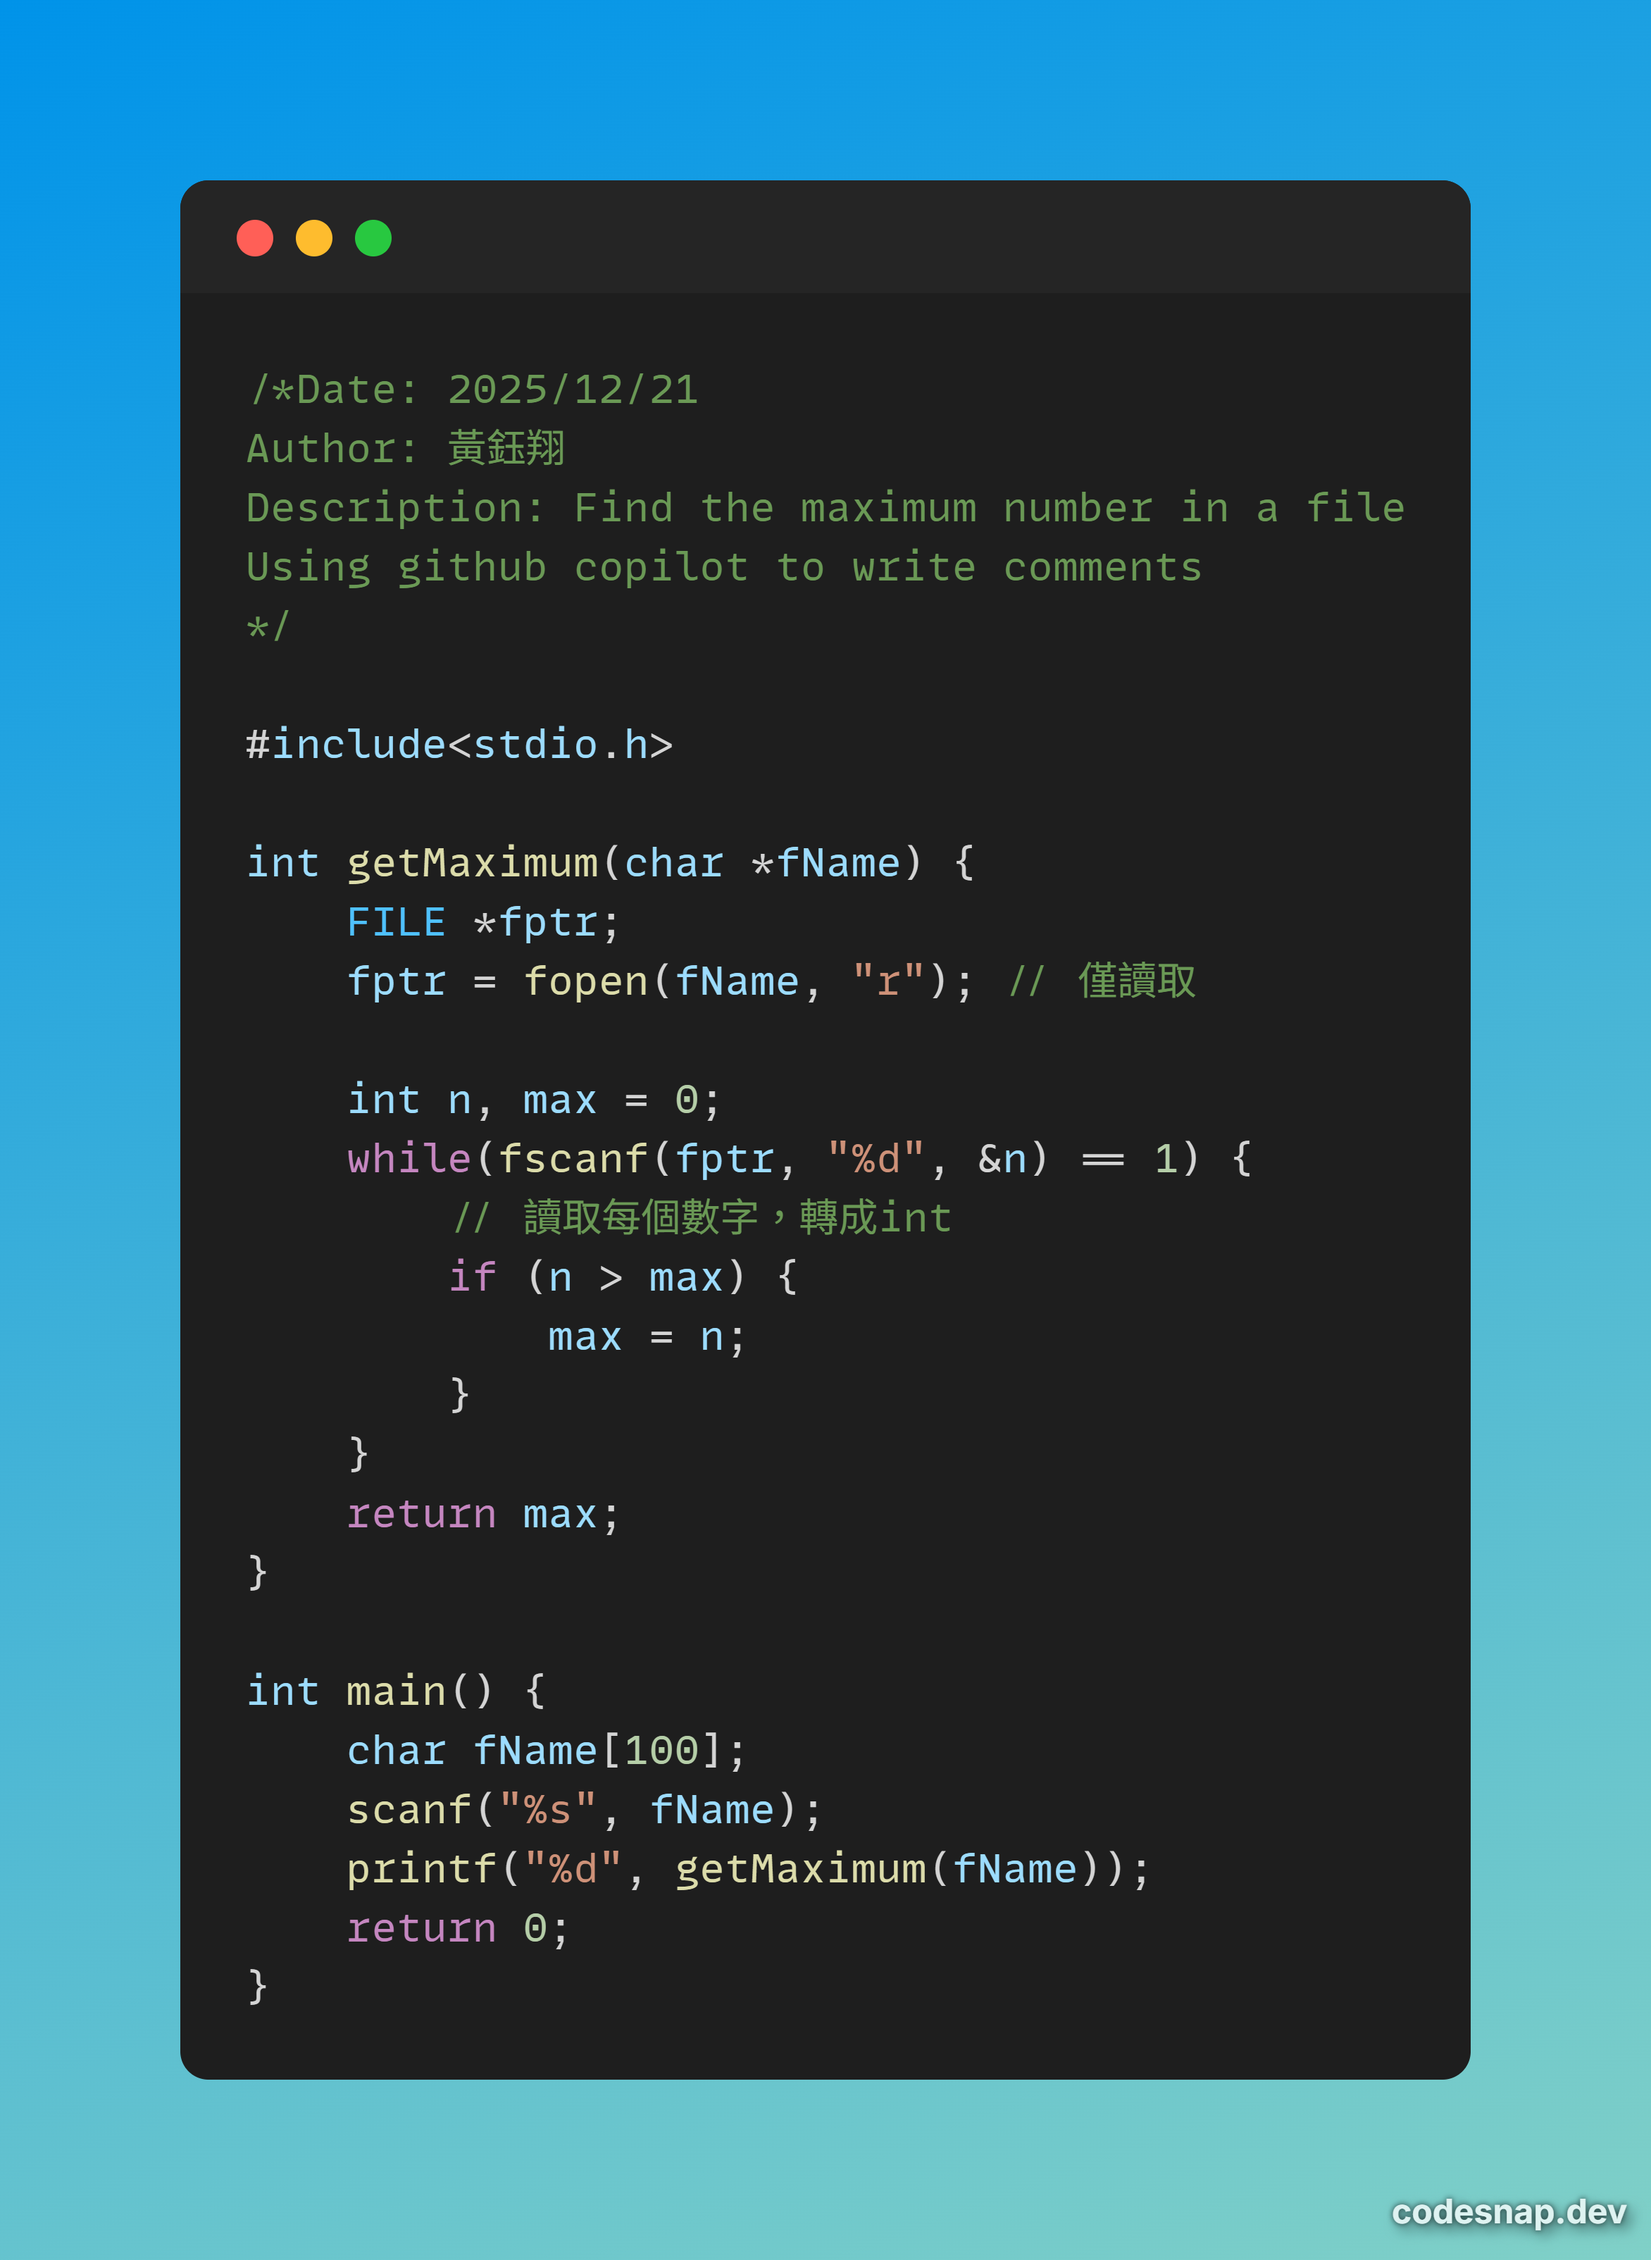
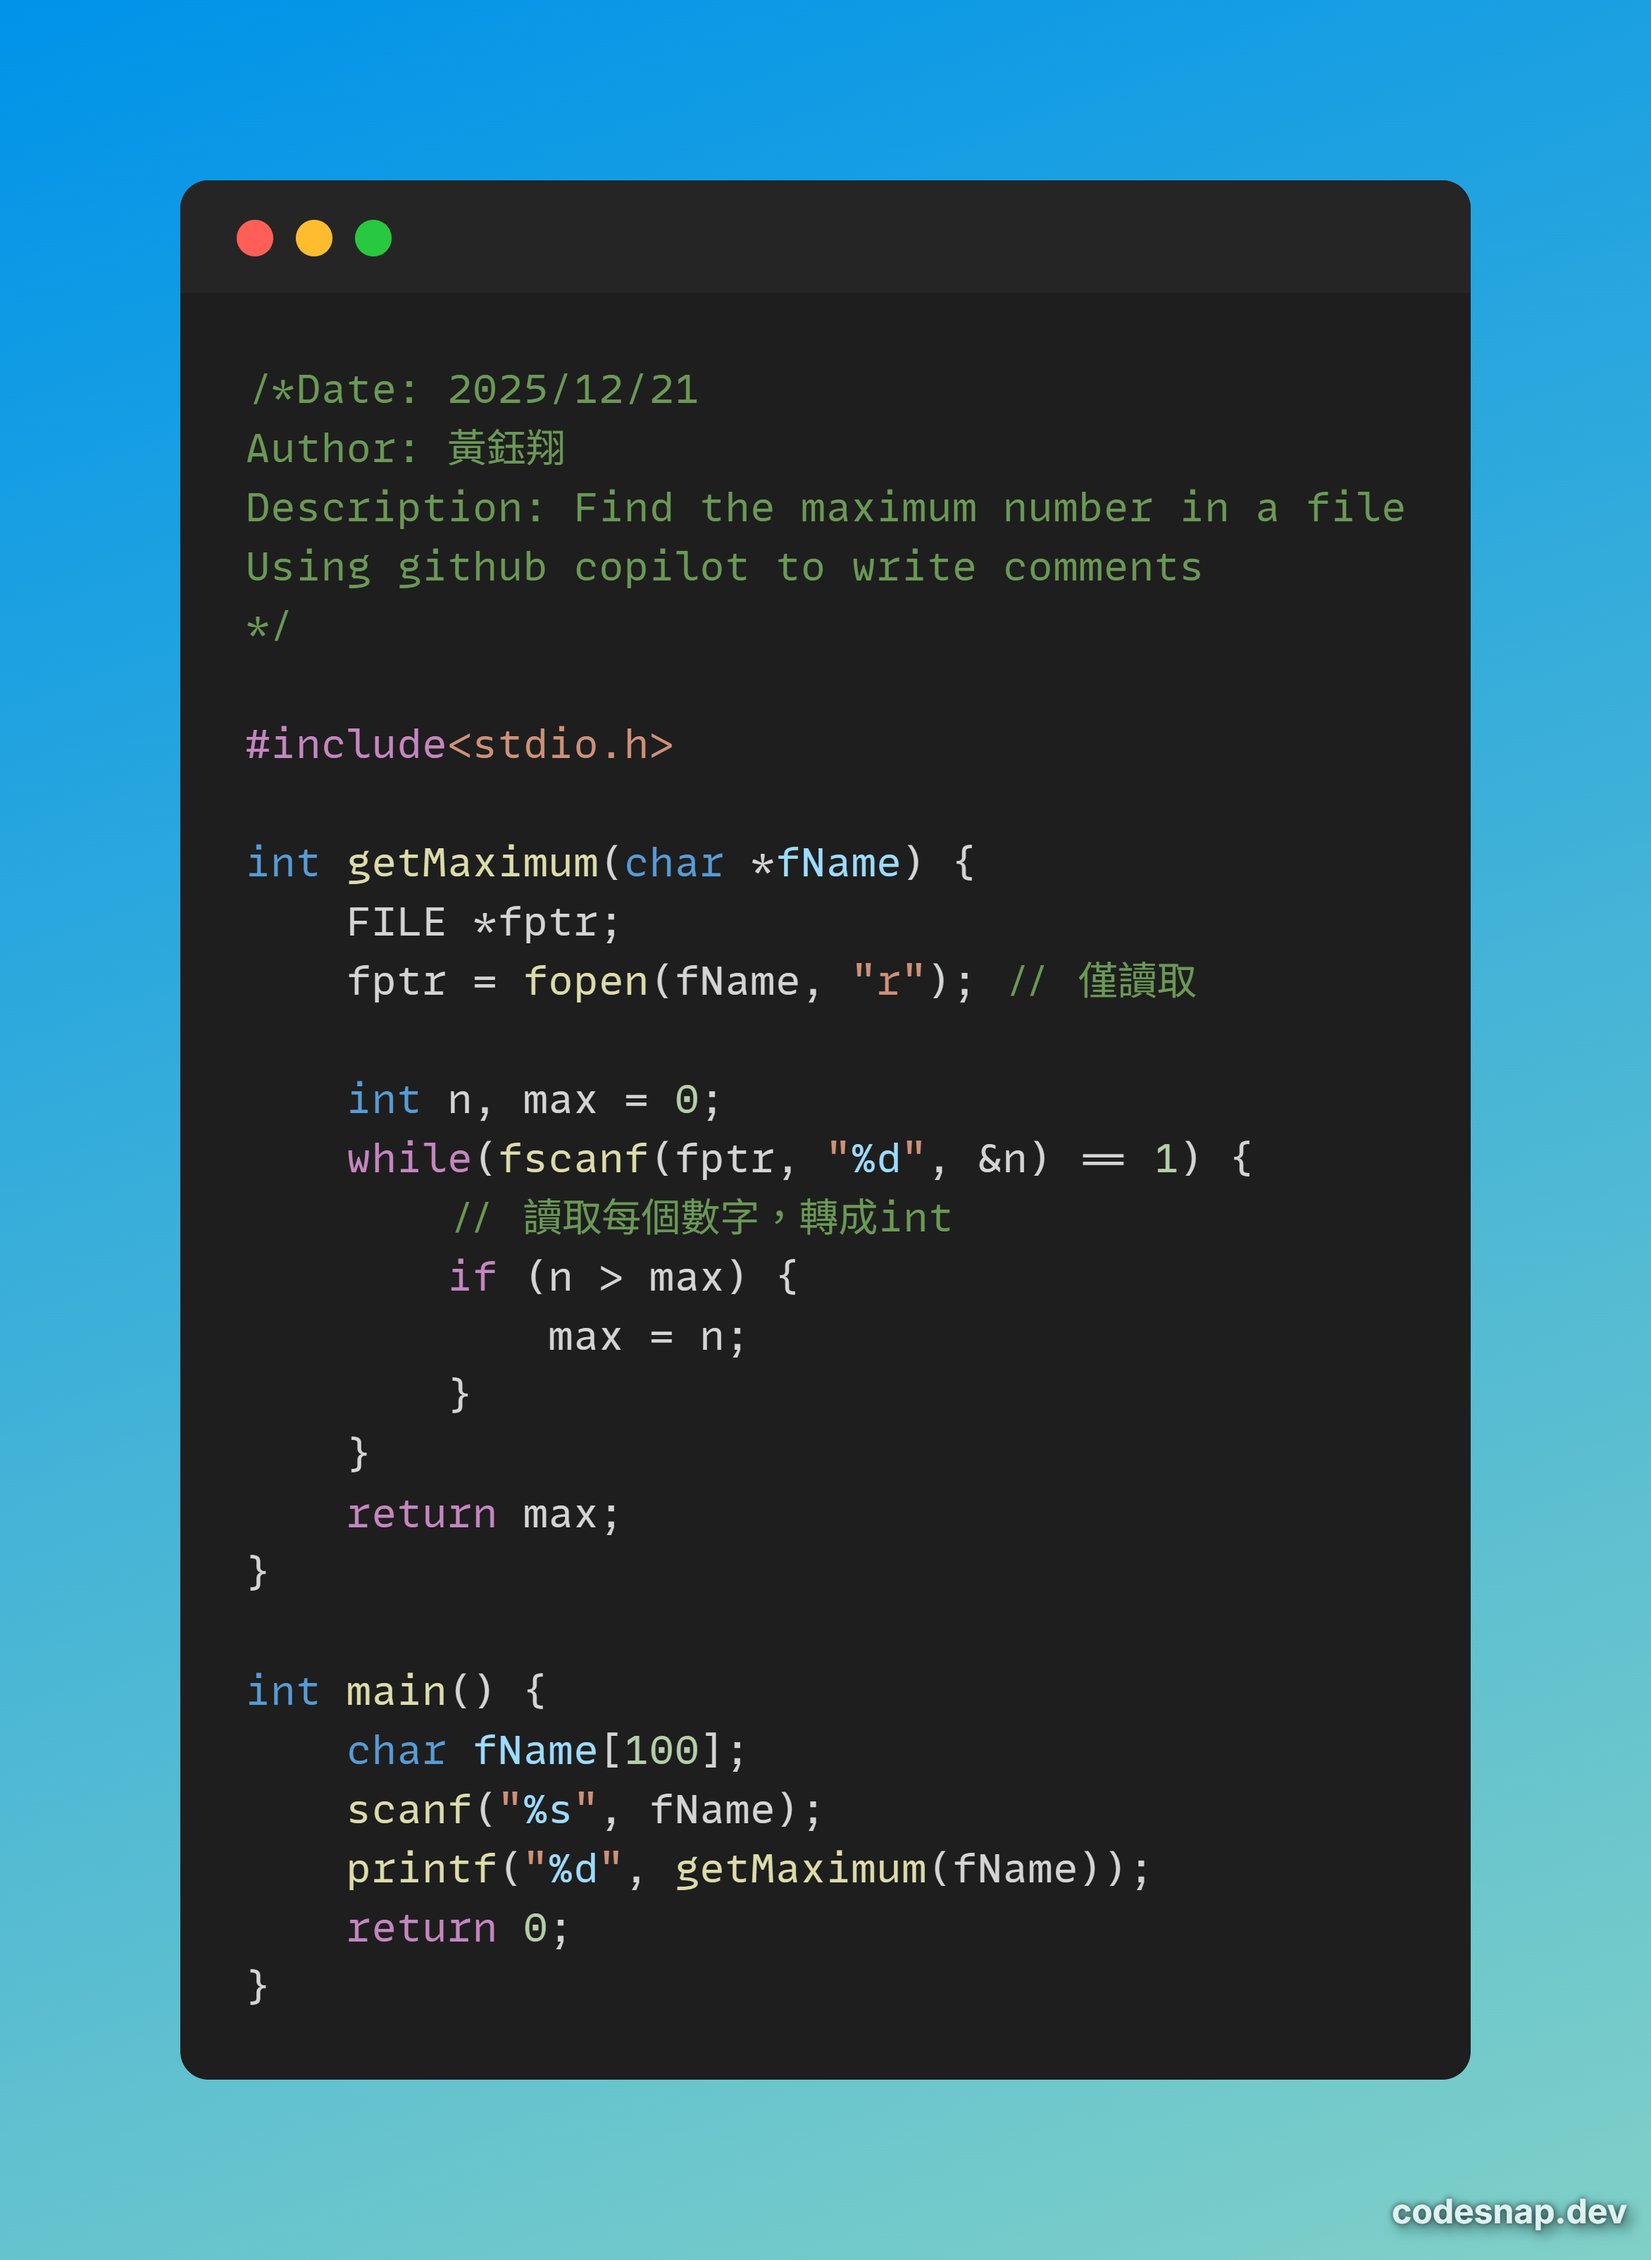
update: Lab14

diff --git a/Programming/1226_LAB14/LAB_14_2_File_Image_Compare_C.c b/Programming/1226_LAB14/LAB_14_2_File_Image_Compare_C.c
@@ -1,3 +1,8 @@
+/*Date: 2025/12/26
+Author: 黃鈺翔
+Description: Compare two binary martix files and count the number of matching elements.
+Using github copilot to write comments
+*/
 #include<stdio.h>
 
 int getMaximumMatch(char *fNameA, char *fNameB) {
@@ -8,24 +13,25 @@ int getMaximumMatch(char *fNameA, char *fNameB) {
         return -1;
     }
 
-    int col = 0, row = 0;
-    int collen = 0, rowlen = 0;
-    int mapA[100][100] = {0}, mapB[100][100] = {0};
-    char bufferA[200], bufferB[200];
+    int col = 0, row = 0; // current position in the matrix
+    int collen = 0, rowlen = 0; // declare for dimensions of the matrix
+    int mapA[100][100] = {0}, mapB[100][100] = {0}; // declare two 2D arrays to hold the binary matrices
+    char bufferA[200], bufferB[200]; // buffers to read lines from files
     // Read file A into mapA
     while (fgets(bufferA, sizeof(bufferA), fileA) != NULL) {
         // Process each file line by line
         col = 0;
         for (int i = 0; bufferA[i] != '\0'; i++) {
             if (bufferA[i] == '0' || bufferA[i] == '1') {
-                mapA[row][col] = bufferA[i] - '0';
+                // just handle '0' and '1' characters and convert them to integers
+                mapA[row][col] = bufferA[i] - '0'; // put into the 2D array
                 col++;
             }
         }        
         row++;
     }
 
-    // set dimensions
+    // set dimensions as the fileA dimensions
     rowlen = row;
     collen = col;
 
@@ -50,6 +56,7 @@ int getMaximumMatch(char *fNameA, char *fNameB) {
     for (int i = 0; i < rowlen; i++) {
         for (int j = 0; j < collen; j++) {
             if (mapA[i][j] == mapB[i][j]) {
+                // count matching elements
                 maxMatch++;
             }
         }

diff --git a/Programming/1226_LAB14/LAB_14_3_Lab_Str_Compare_C.c b/Programming/1226_LAB14/LAB_14_3_Lab_Str_Compare_C.c
@@ -1,0 +1,54 @@
+/*Date: 2025/12/26
+Author: 黃鈺翔
+Description: Compare two text files containing IDs and output the matching IDs in the order of the second file.
+Using github copilot to write comments
+*/
+#include<stdio.h>
+#include<string.h>
+
+int main() {
+    char *fileA = "fileA.txt";
+    char *fileB = "fileB.txt";
+    FILE *fA = fopen(fileA, "r");
+    FILE *fB = fopen(fileB, "r");
+
+    if (fA == NULL || fB == NULL) {
+        printf("Error opening files.\n");
+        return -1;
+    }
+
+    char idsA[100][50], idsB[100][50]; // Arrays to hold IDs from both files
+    int countA = 0, countB = 0; // Counters for number of IDs in each file
+    // Read IDs from file A
+    while(fscanf(fA, "%s", idsA[countA]) == 1) {
+        countA++;
+    }
+
+    // Read IDs from file B
+    while(fscanf(fB, "%s", idsB[countB]) == 1) {
+        countB++;
+    }
+
+    fclose(fA);
+    fclose(fB);
+
+    // Compare IDs from both files and count matches
+    char matches[100][50];
+    int matchCount = 0;
+    for(int j = 0; j < countB; j++) {
+        for(int i = 0; i < countA; i++) {
+            if(strcmp(idsA[i], idsB[j]) == 0) {
+                // Output as the order of fileB
+                strcpy(matches[matchCount], idsA[i]);
+                matchCount++;
+                break; // Move to the next ID in file A after a match
+            }
+        }
+    }
+
+    // Print matched IDs
+    for(int i = 0; i < matchCount; i++) {
+        printf("%s\n", matches[i]);
+    }
+    return 0;
+}
